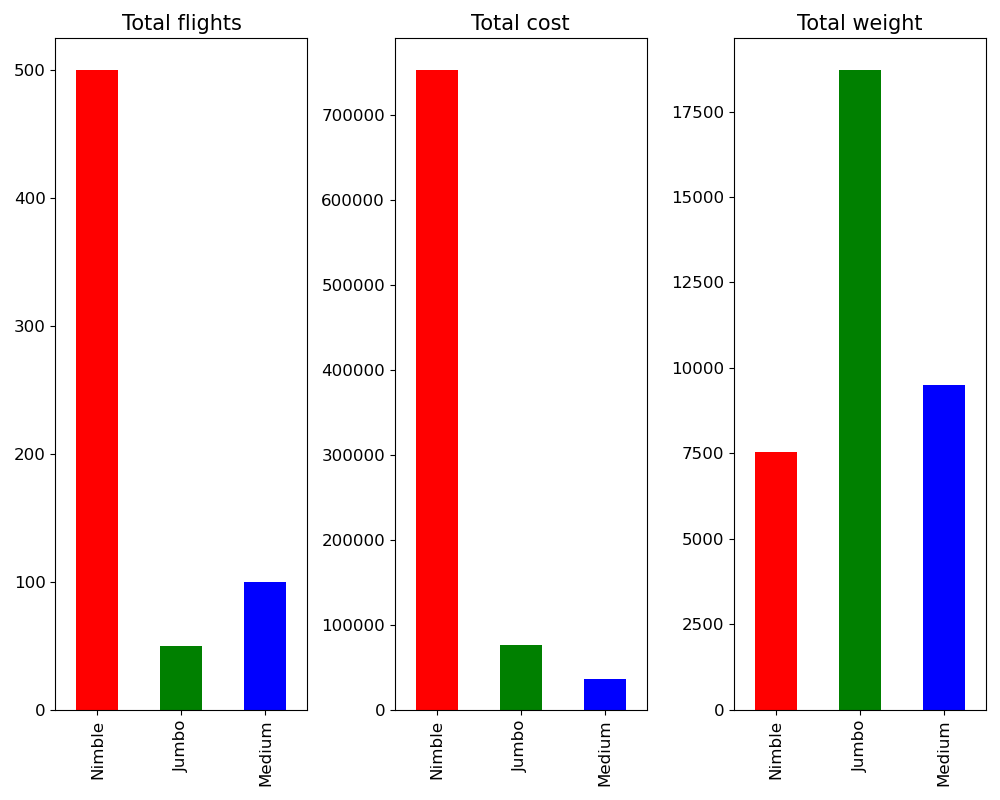
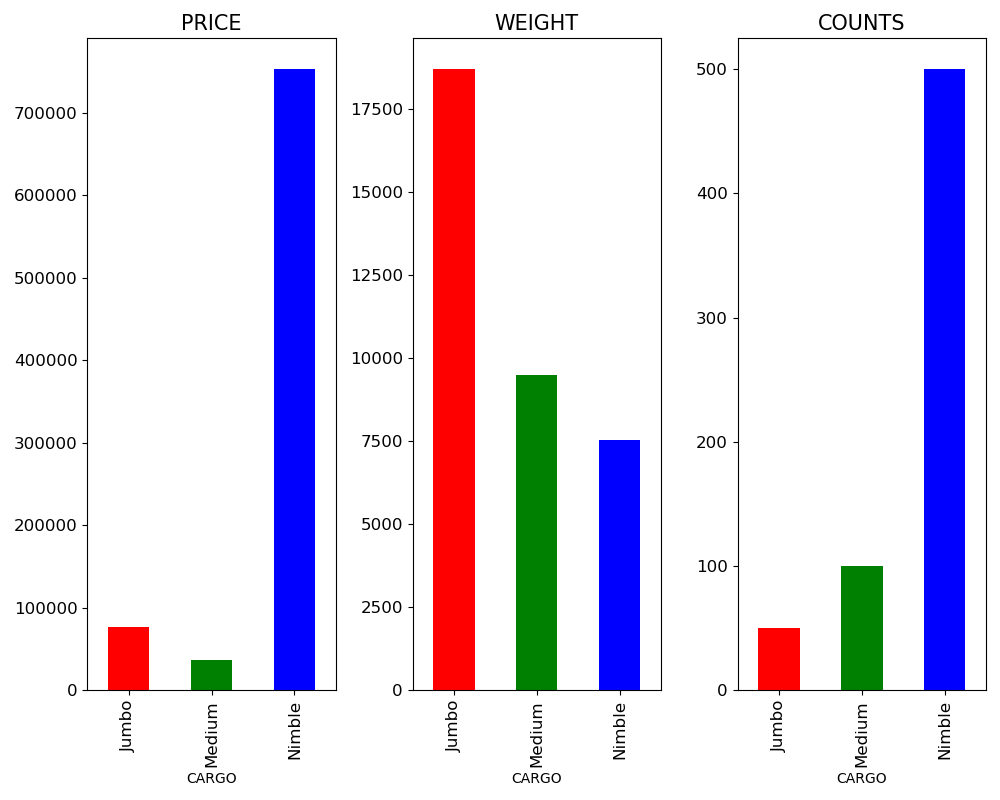
flights update

diff --git a/Lab_2_Pandas/Episode2/Task.py b/Lab_2_Pandas/Episode2/Task.py
@@ -5,14 +5,11 @@ fig1, axes = plt.subplots(nrows=1, ncols=3)
 
 data = pd.read_csv('flights.csv', index_col=0)
 data.reset_index()
-print(data)
-newdata = pd.DataFrame({'Total flights': [len(data.apply(lambda x: True if x[0] == i else False, axis=1)
-                                              [data.apply(lambda x: True if x[0] == i else False, axis=1)
-                                               == True].index) for i in data['CARGO'].unique()],
-                        'Total cost': [data.loc[(data['CARGO'] == i), 'PRICE'].sum() for i in data['CARGO'].unique()],
-                        'Total weight': [data.loc[(data['CARGO'] == i), 'WEIGHT'].sum() for i in data['CARGO'].unique()]},
-                       index=data['CARGO'].unique())
+
+newdata = data.groupby('CARGO').sum()
+newdata['COUNTS'] = data.groupby('CARGO').count()['PRICE'].values
 print(newdata)
+
 for i in newdata.columns:
     newdata[i].plot.bar(ax=axes[list(newdata.columns).index(i)],
                         fontsize=12, figsize=(10, 8), title=i, color=['r', 'g', 'b'])
